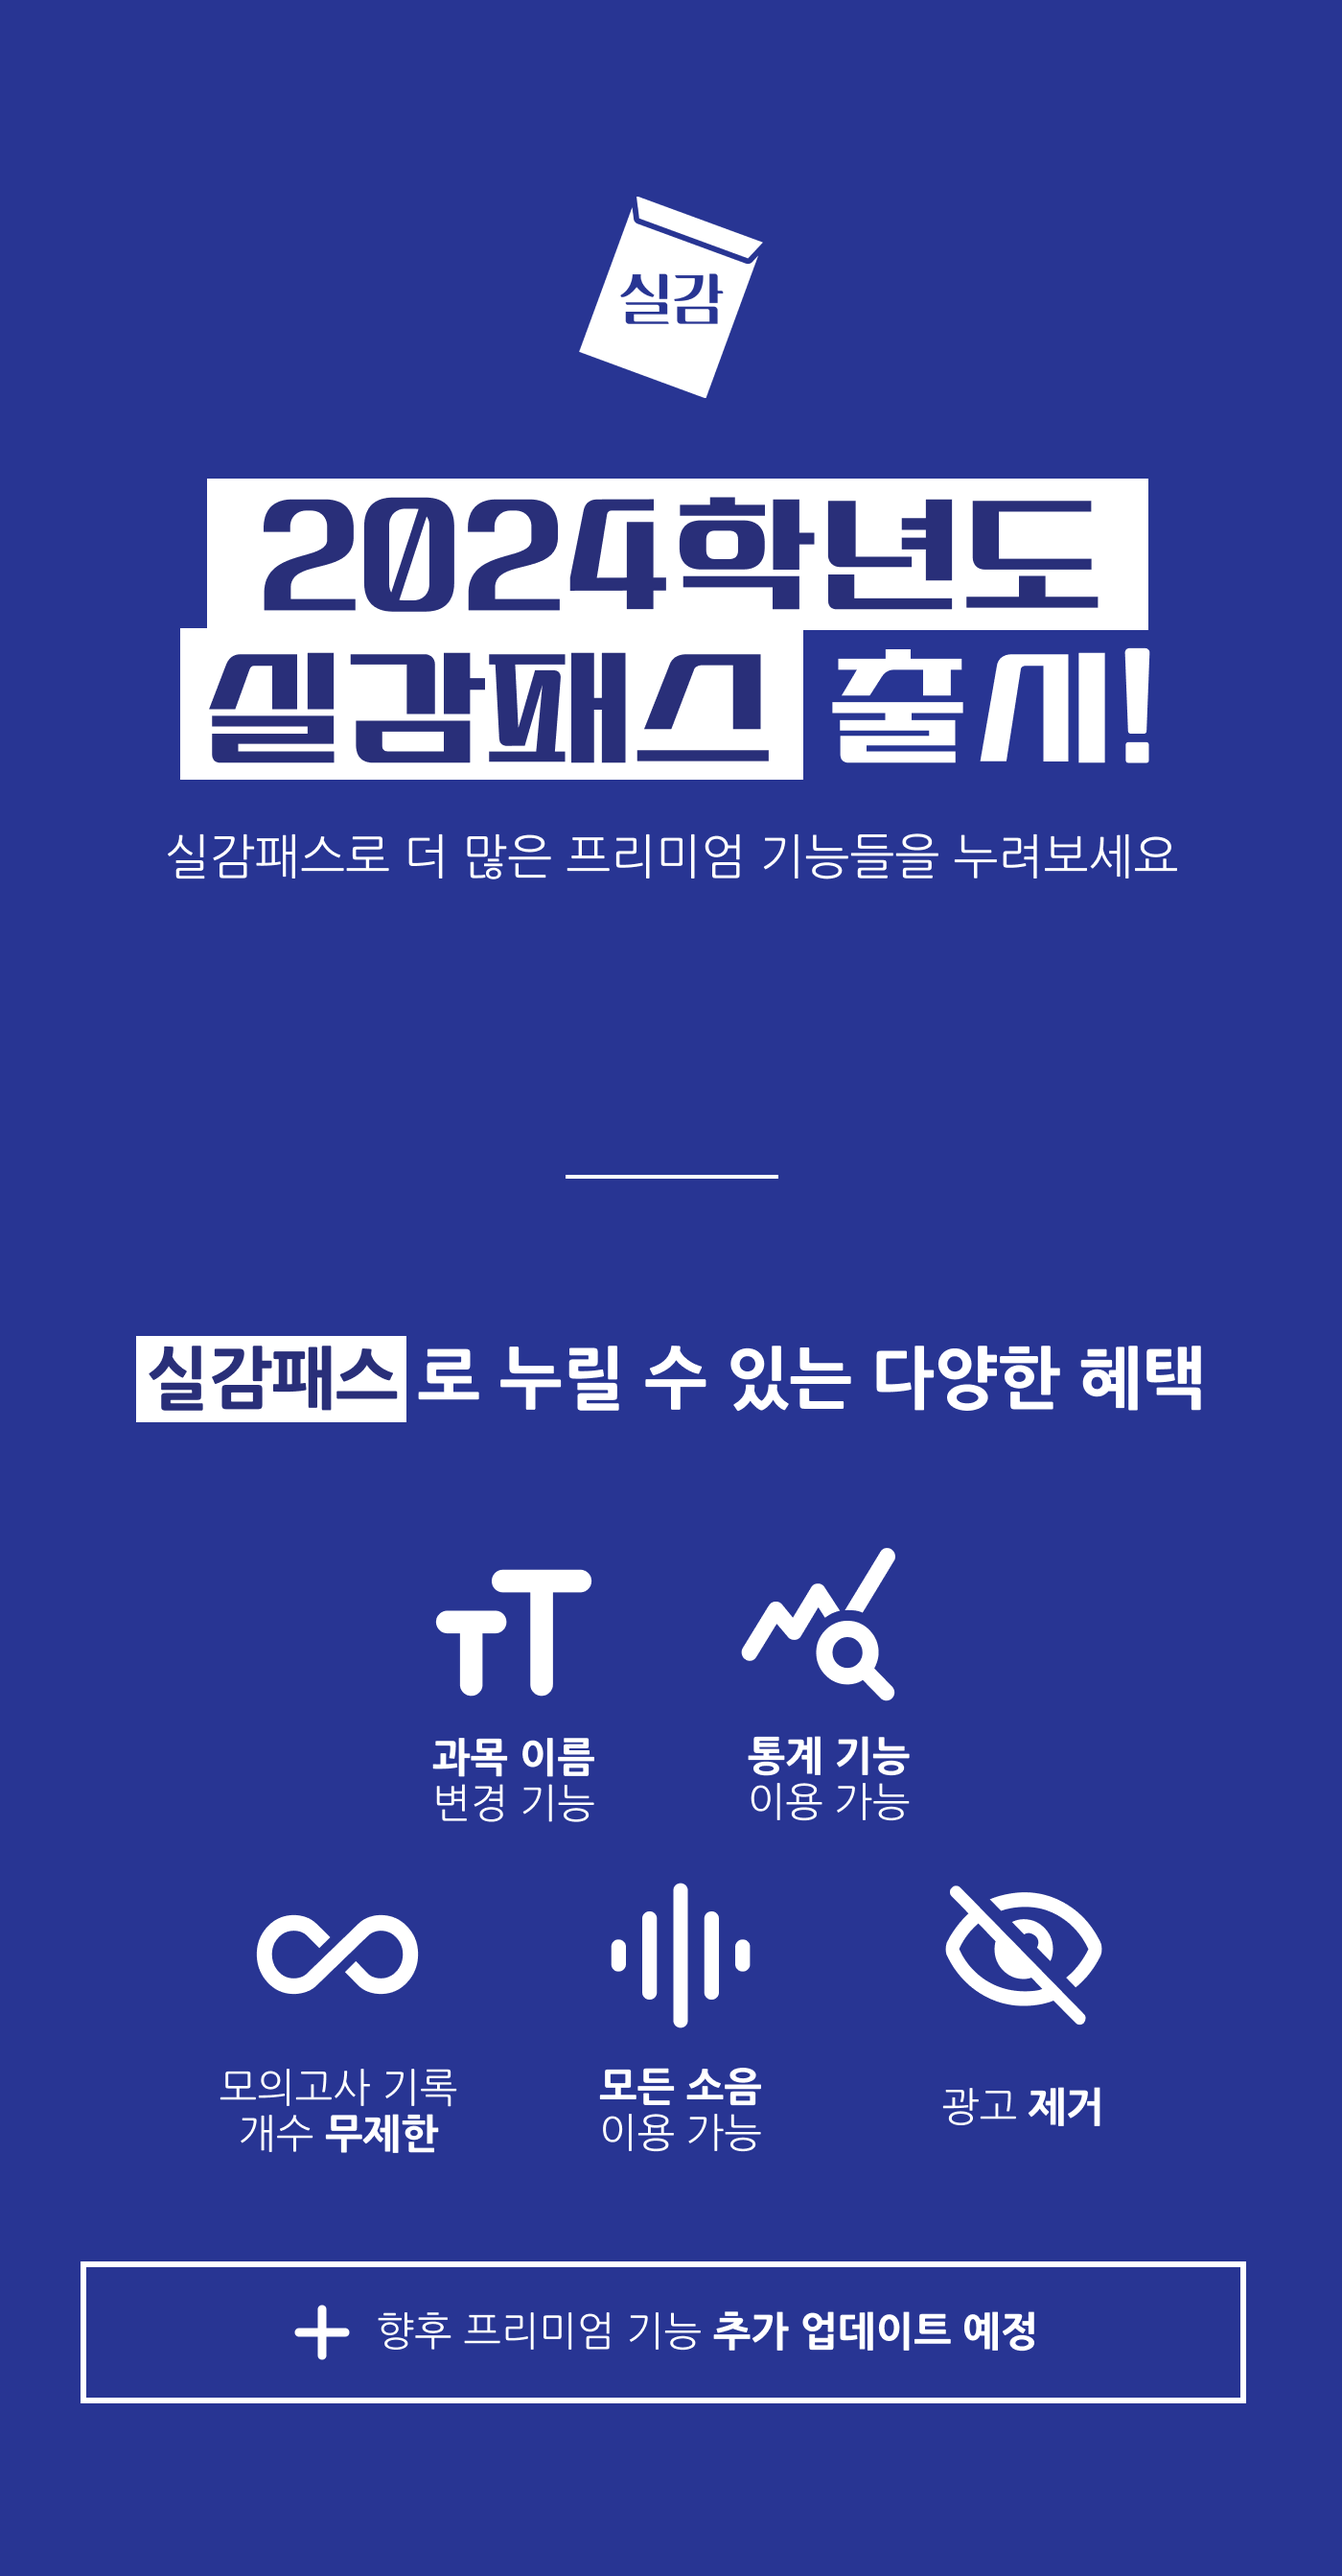
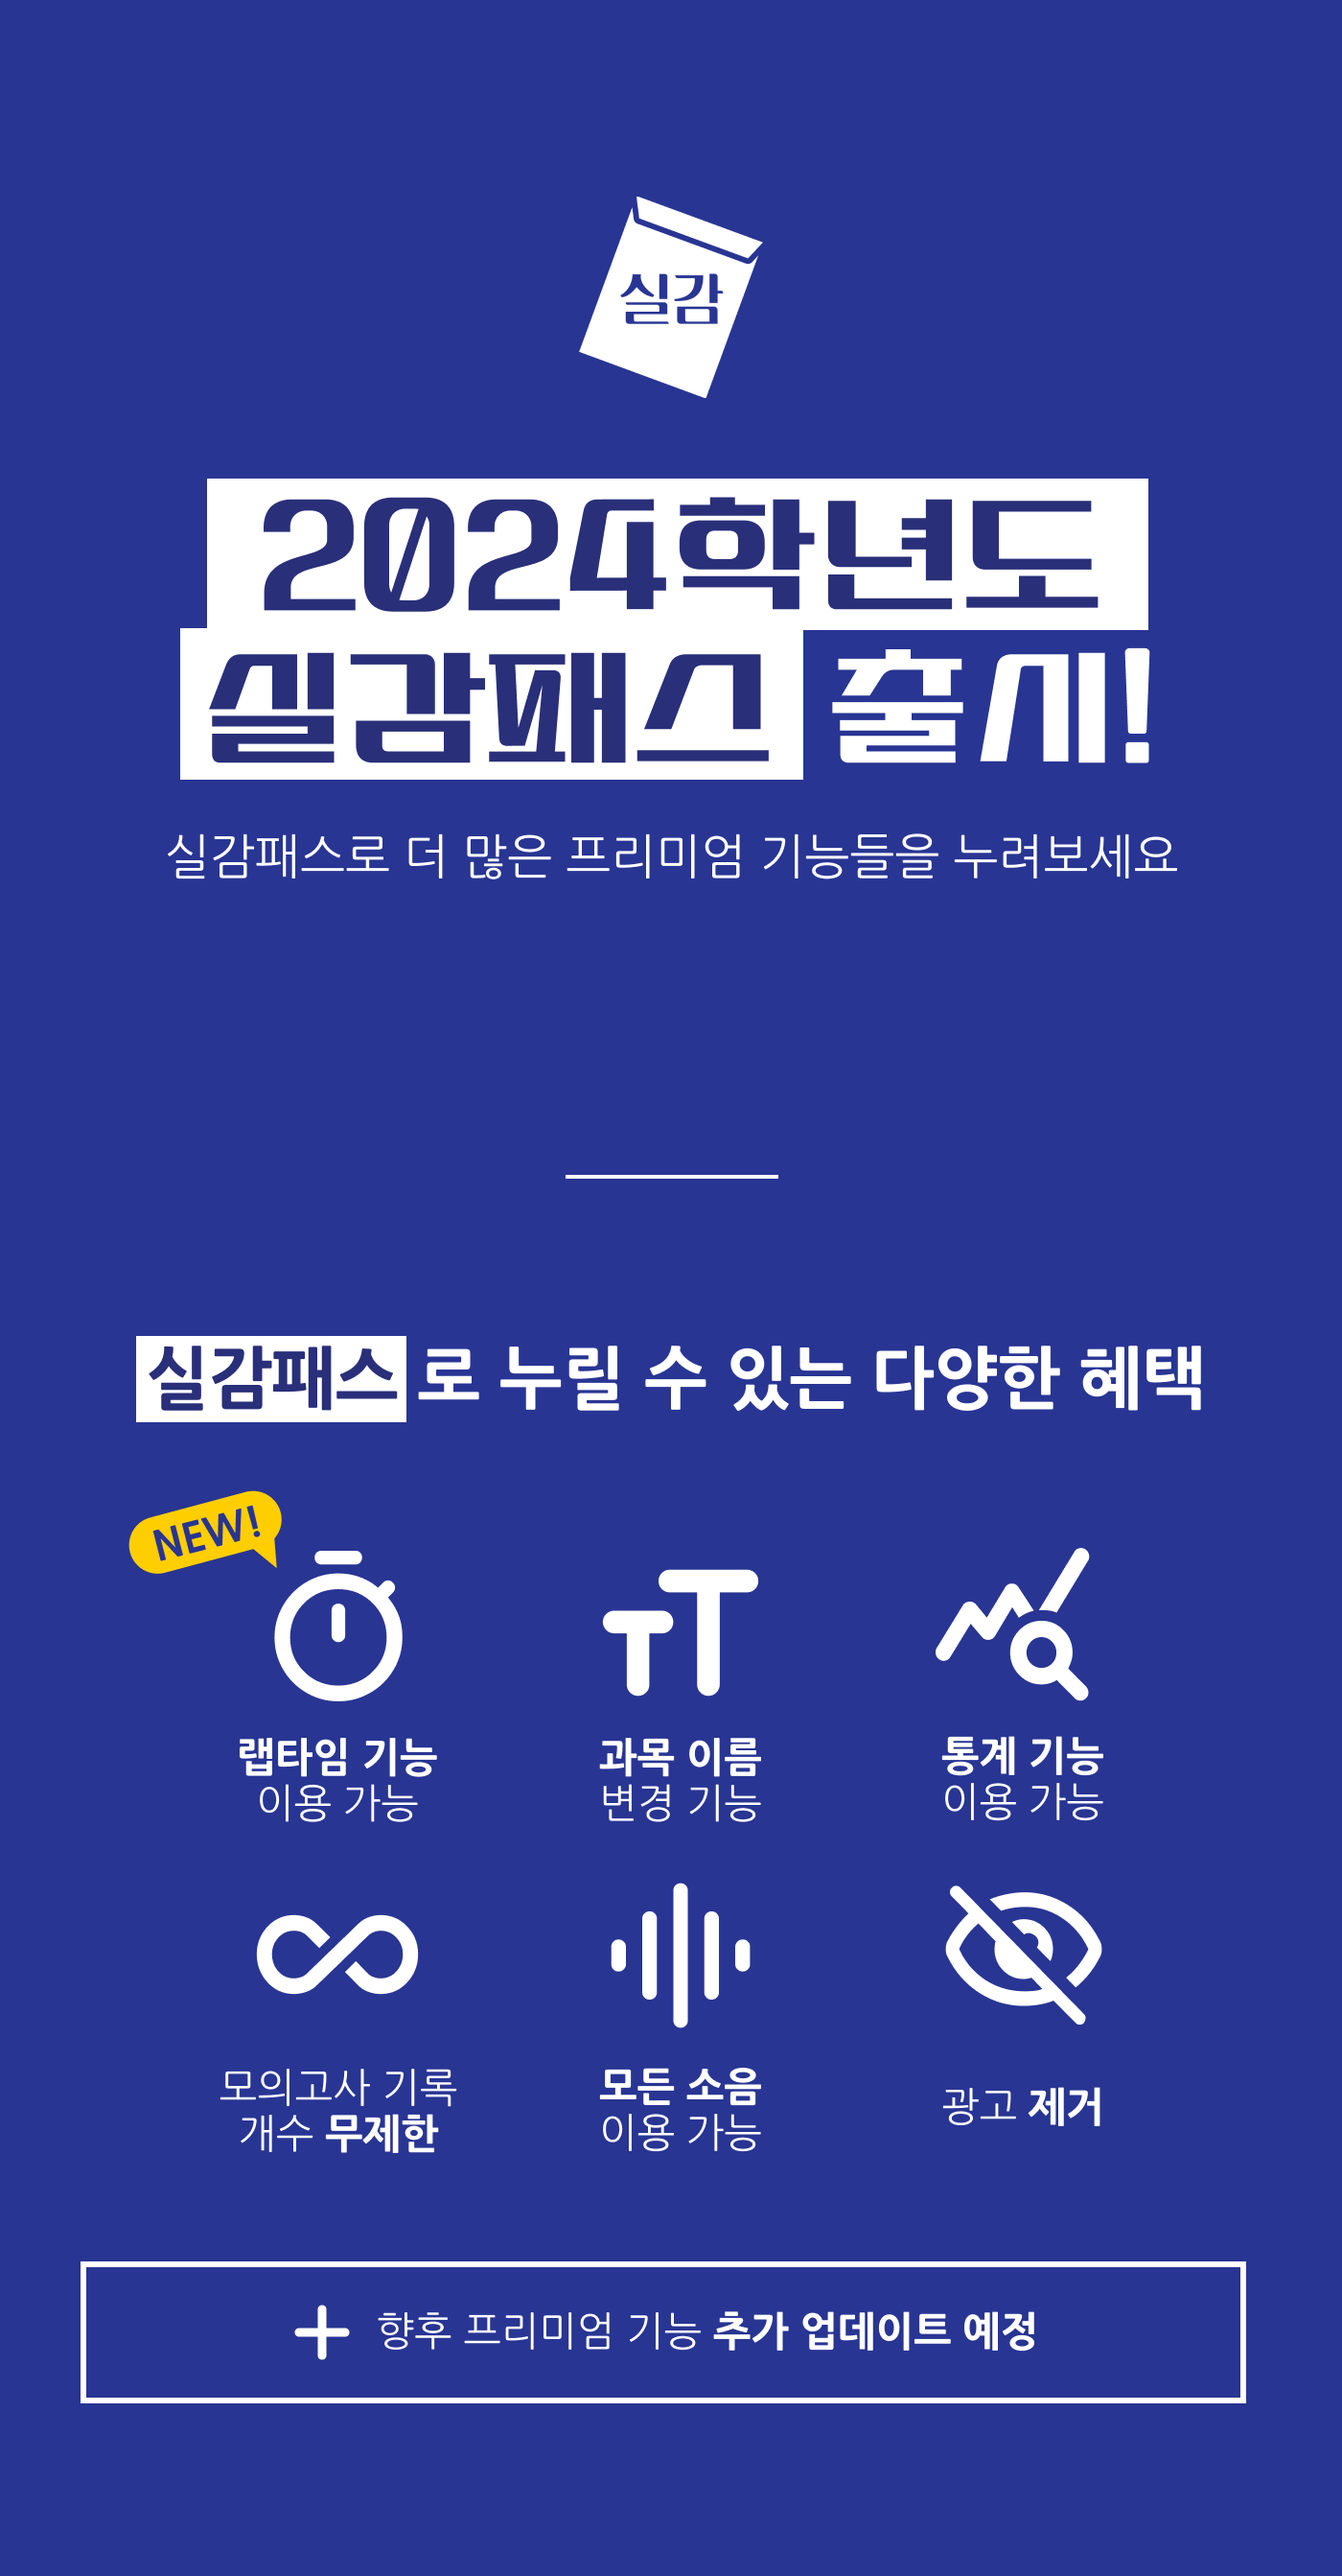
feat: 패스 소개 페이지 수정

Changed region(s): [[0.0921, 0.5562, 0.6757, 0.7107], [0.7064, 0.5871, 0.8293, 0.7107]]

diff --git a/src/components/products/Pass2024/index.tsx b/src/components/products/Pass2024/index.tsx
@@ -11,6 +11,7 @@ import section5Image from "@/static/images/pass_page/pass2024/section5.png";
 import section6Image from "@/static/images/pass_page/pass2024/section6.png";
 import section7Image from "@/static/images/pass_page/pass2024/section7.png";
 import section8Image from "@/static/images/pass_page/pass2024/section8.png";
+import section9Image from "@/static/images/pass_page/pass2024/section9.png";
 
 import * as Styled from "./index.styled";
 
@@ -70,11 +71,14 @@ export default function Pass2024Page() {
         <Styled.Section>
           <Styled.SectionImage src={section5Image} alt="section" />
         </Styled.Section>
-        <Styled.Section ref={section6Ref} id="section6">
+        <Styled.Section>
           <Styled.SectionImage src={section6Image} alt="section" />
         </Styled.Section>
-        <Styled.Section>
+        <Styled.Section ref={section6Ref} id="section6">
           <Styled.SectionImage src={section7Image} alt="section" />
+        </Styled.Section>
+        <Styled.Section>
+          <Styled.SectionImage src={section8Image} alt="section" />
           <Styled.ImageButtonPurchase
             onClick={purchase}
             src={purchaseButtonImage}
@@ -83,7 +87,7 @@ export default function Pass2024Page() {
           />
         </Styled.Section>
         <Styled.Section>
-          <Styled.SectionImage src={section8Image} alt="section" />
+          <Styled.SectionImage src={section9Image} alt="section" />
           <Styled.ImageButtonTrial
             onClick={trial}
             src={trialButtonImage}
